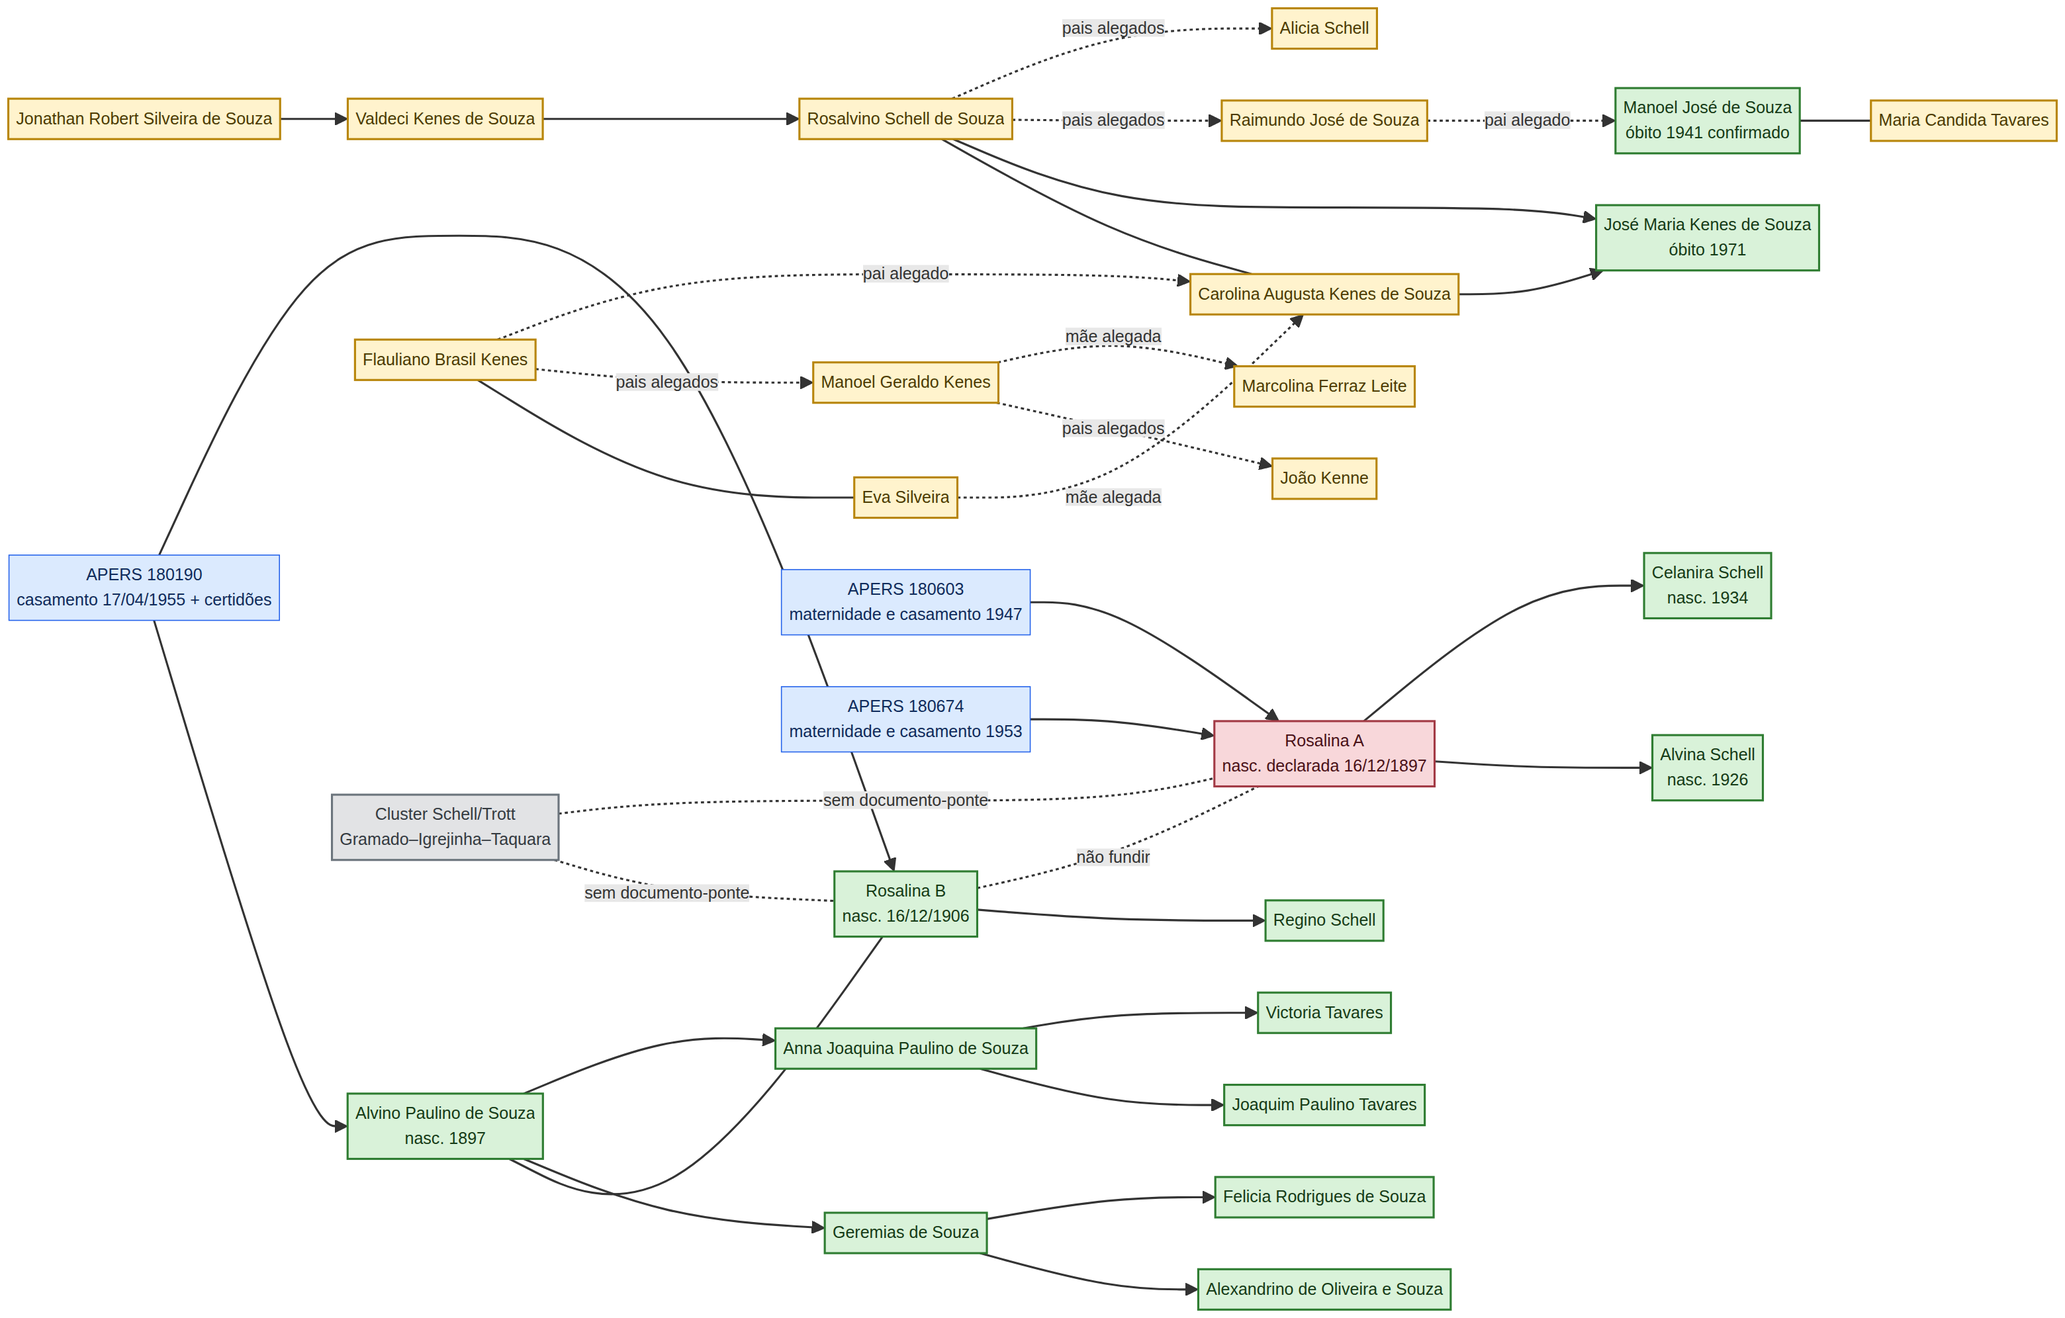
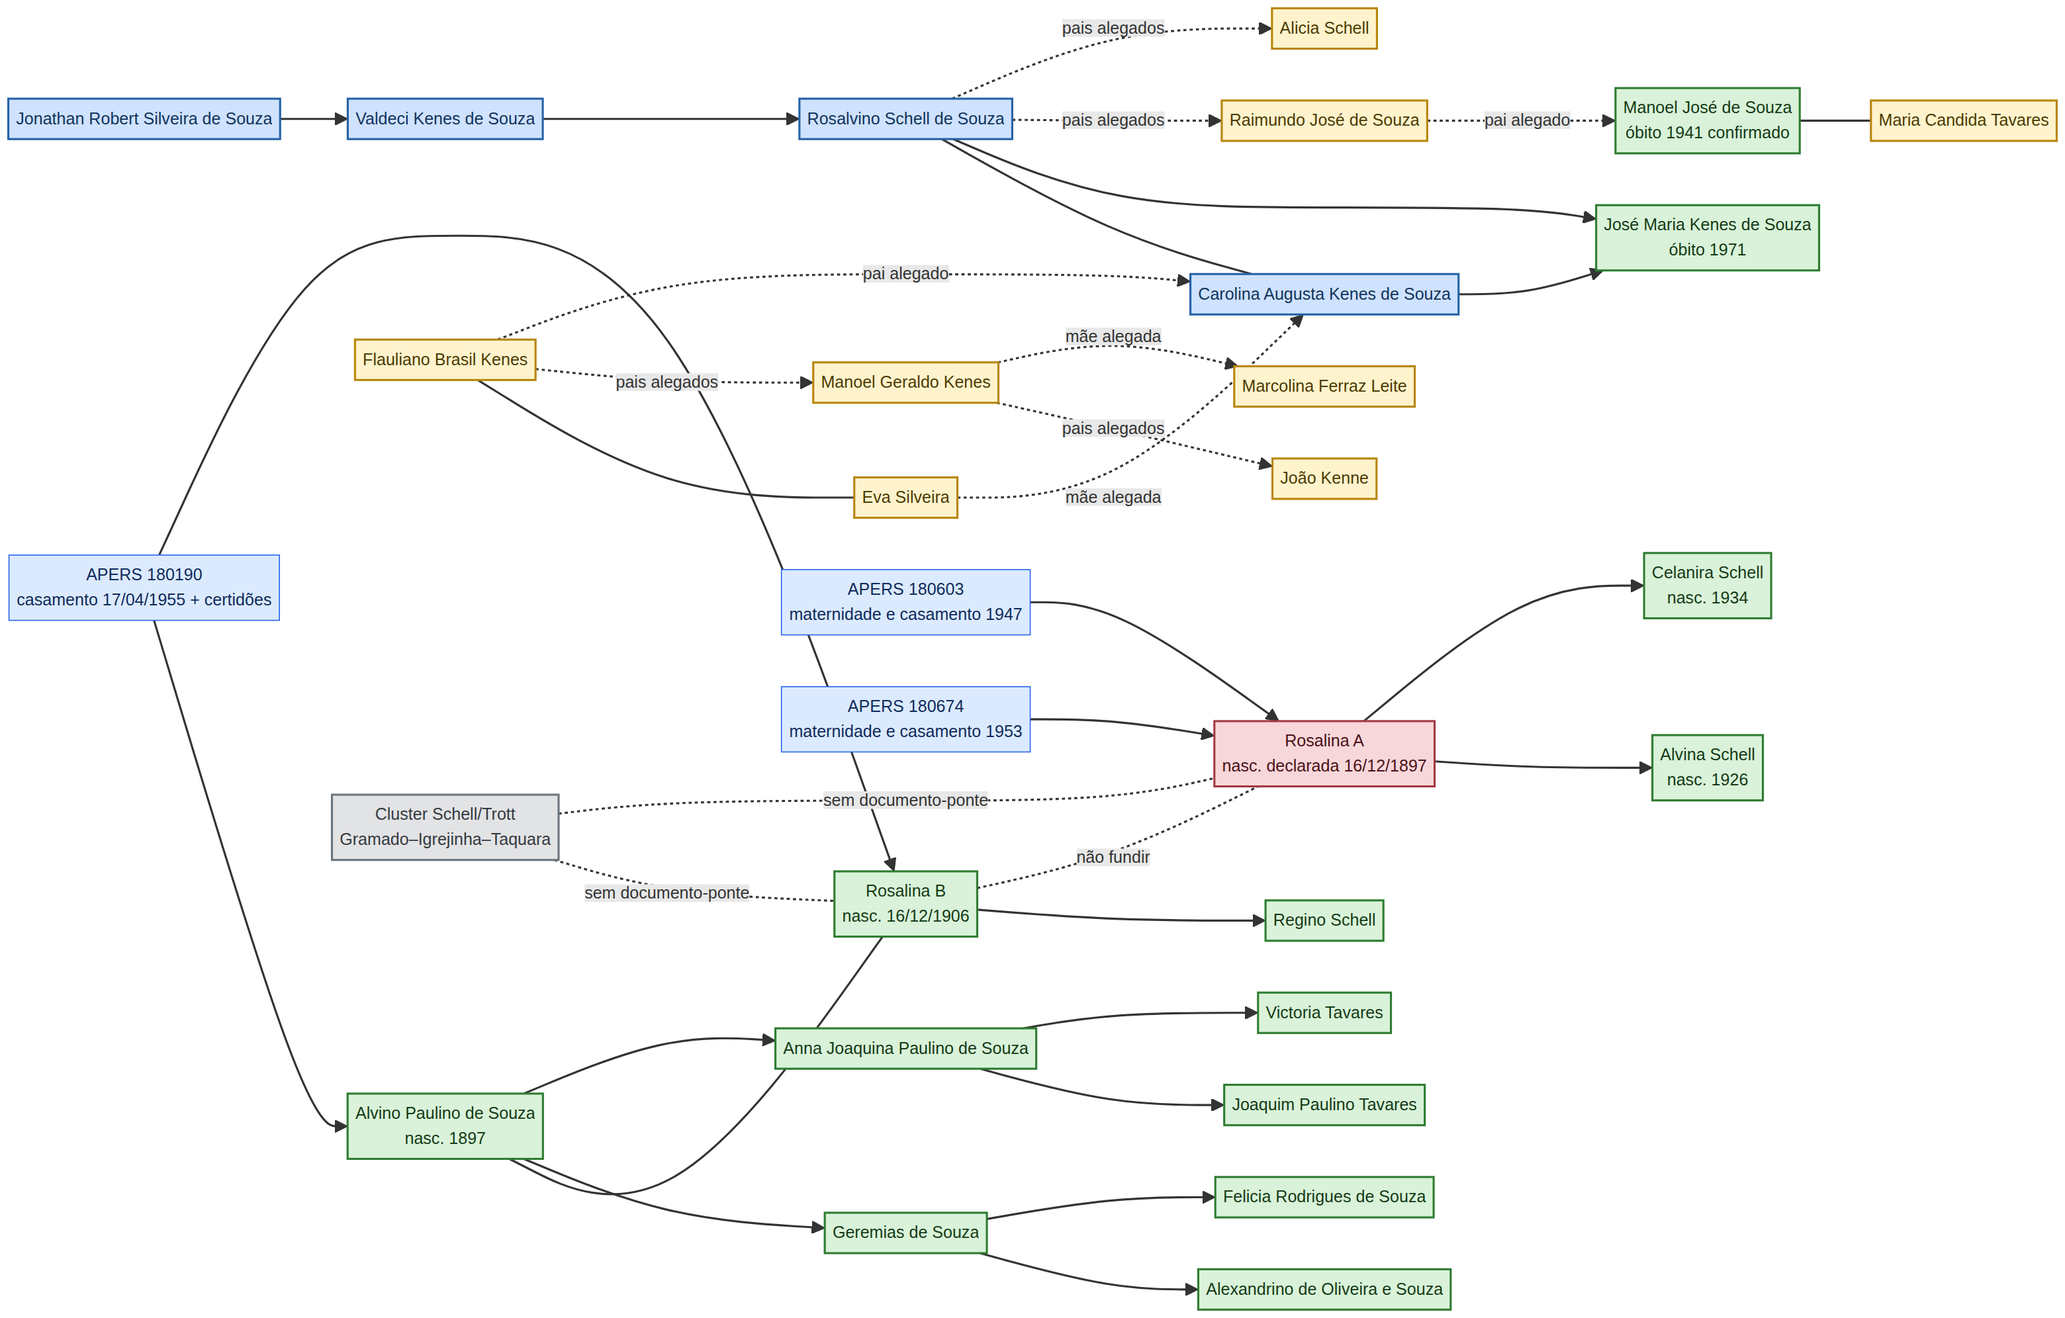
Reconhecer certidao privada da linha direta com privacidade

Changed region(s): [[0.0, 0.0622, 0.2798, 0.1245], [0.5596, 0.1867, 0.7151, 0.249], [0.3731, 0.0622, 0.4974, 0.1245]]

diff --git a/linha_direta_jonathan_atualizada_2026-08-20.md b/linha_direta_jonathan_atualizada_2026-08-20.md
@@ -4,16 +4,16 @@
 
 Na genealogia, a linha é organizada começando pela pessoa pesquisada e caminhando para trás: **você → pais → avós → bisavós → trisavós**. Cada geração para trás aumenta um grau de ancestralidade.
 
-A árvore abaixo combina memória familiar, registros civis já localizados e dados da árvore colaborativa do FamilySearch. Por isso, cada ligação está marcada como **confirmada**, **fortemente indicada** ou **a confirmar**.
+A árvore abaixo combina conhecimento familiar direto, a certidão de nascimento privada de Jonathan — não compartilhada por segurança —, registros civis já localizados e dados da árvore colaborativa do FamilySearch. Os vínculos vividos diretamente por Jonathan e registrados em sua certidão são marcados como **confirmados documentalmente em fonte privada e por testemunho familiar direto**; os demais registros civis são mantidos como documentação complementar e as relações de gerações anteriores continuam classificadas por evidência.
 
 ## Linha principal até o ramo Kenne/Kenes
 
 | Geração | Pessoa | Ligação com Jonathan | Situação atual |
 |---|---|---|---|
 | 1 | **Jonathan Robert Silveira de Souza** | Pessoa pesquisada | Identidade informada pelo próprio Jonathan. |
-| 2 | **Valdeci Kenes de Souza** | Pai | Ligação familiar conhecida; falta localizar registro civil que confirme a filiação. |
-| 3 | **Rosalvino Schell/Schel de Souza** | Avô paterno | Identidade confirmada por memória familiar; registro de óbito ainda não localizado. |
-| 3 | **Carolina Augusta Kenes de Souza** | Avó paterna | Avó viva; não devemos investigar dados pessoais diretamente sem necessidade. A presença dela como esposa de Rosalvino aparece no registro civil de José Maria de 1971. [1] |
+| 2 | **Valdeci Kenes de Souza** | Pai | **Confirmado pela certidão de nascimento privada de Jonathan e por conhecimento familiar direto**; o documento não foi compartilhado e o registro público permanece complementar. |
+| 3 | **Rosalvino Schell/Schel de Souza** | Avô paterno | **Confirmado pela certidão de nascimento privada de Jonathan e por conhecimento pessoal direto**; registro civil de óbito e nascimento permanece complementar. |
+| 3 | **Carolina Augusta Kenes de Souza** | Avó paterna | **Confirmada pela certidão de nascimento privada de Jonathan e por conhecimento familiar direto**; avó viva, portanto não devemos investigar dados pessoais diretamente sem necessidade. A presença dela como esposa de Rosalvino aparece no registro civil de José Maria de 1971. [1] |
 | 4 | **Flauliano Brasil Kenes** | Pai de Carolina | Indicado no perfil de Carolina, ID `P7NS-NVL`; casamento com Eva em 28/07/1948 aparece na árvore. |
 | 4 | **Eva Silveira** | Mãe de Carolina | Indicada no perfil de Carolina, ID `PH4B-XS2`; filiação ainda precisa de registro original. |
 | 5 | **Manoel Geraldo Kenes/Lemes** | Pai de Flauliano | Indicado na árvore, ID `PMXJ-2SR`; falta certidão primária. |
@@ -47,7 +47,7 @@ O óbito de Manoel José de Souza, em 21/02/1941, confirma o evento e menciona R
 
 ## O que já está mais comprovado
 
-O elo mais bem documentado da linha recente é o registro de José Maria Kenes de Souza, falecido em Guaíba em 29/03/1971, no qual Rosalvino Schel de Souza aparece como pai e Carolina Augusta Kenes de Souza aparece como esposa de Rosalvino. Esse documento confirma o casal no núcleo familiar, mas não substitui a certidão de nascimento ou casamento de Valdeci. [1]
+O vínculo familiar mais seguro da linha recente é confirmado por duas camadas: a **certidão de nascimento privada de Jonathan**, que registra Valdeci como pai e Rosalvino e Carolina como avós, e o **conhecimento pessoal direto de Jonathan**. A certidão não foi compartilhada nem anexada. O registro de José Maria Kenes de Souza, falecido em Guaíba em 29/03/1971, acrescenta uma correlação documental independente, pois apresenta Rosalvino Schel de Souza como pai e Carolina Augusta Kenes de Souza no conjunto familiar como esposa de Rosalvino. [1]
 
 No ramo Kenne, a página pública de Ana Ventura Kenne confirma Cândido Sandálio Kenne e Anna Maria Ugo como seus pais e lista vários irmãos. Outra fonte associada ao nascimento de José Conceição Kenne anota que seu avô João Kenne era natural da Alemanha “conforme registro”. Ainda assim, a sequência **Carolina → Flauliano → Manoel → João** precisa ser confirmada geração por geração com imagens originais.
 
@@ -55,7 +55,7 @@ No ramo Kenne, a página pública de Ana Ventura Kenne confirma Cândido Sandál
 
 A pesquisa deve avançar nesta ordem:
 
-1. **Valdeci Kenes de Souza:** localizar nascimento ou outro registro que o apresente como filho de Rosalvino e Carolina.
+1. **Valdeci Kenes de Souza:** localizar nascimento ou outro registro que documente externamente a filiação já confirmada por Jonathan, apresentando-o como filho de Rosalvino e Carolina.
 2. **Casamento ou nascimento de Carolina:** usar o registro de Flauliano e Eva de 1948 para obter filiação e localidade.
 3. **Flauliano Brasil Kenes:** localizar nascimento em 1923 e confirmar Manoel Geraldo e Dorvalina como pais.
 4. **Manoel Geraldo Kenes/Lemes:** localizar nascimento, casamento ou óbito para confirmar João Kenne e Marcolina.

diff --git a/arvore_provisoria_evidencias.md b/arvore_provisoria_evidencias.md
@@ -2,7 +2,7 @@
 
 ## Escopo atual
 
-Este registro foi elaborado a partir da visualização paisagem do FamilySearch associada à pessoa `GK15-TLV` e de páginas públicas consultadas em 19 de agosto de 2026. A árvore colaborativa e o resumo do MyHeritage são tratados como **fontes derivadas**. Nenhum elo abaixo foi elevado a confirmado sem certidão, registro paroquial, imagem de arquivo ou conjunto independente de evidências.
+Este registro foi elaborado a partir da visualização paisagem do FamilySearch associada à pessoa `GK15-TLV`, de páginas públicas consultadas em 19 de agosto de 2026 e do conhecimento familiar direto declarado por Jonathan. A árvore colaborativa e o resumo do MyHeritage são tratados como **fontes derivadas**. Os vínculos **Jonathan → Valdeci**, **Jonathan → Rosalvino** e **Jonathan → Carolina** são confirmados como fatos familiares vividos pelo testemunho pessoal direto de Jonathan; os documentos civis continuam sendo buscados para auditoria externa, datas e filiações formais. Os elos de gerações anteriores continuam dependendo de certidão, registro paroquial, imagem de arquivo ou conjunto independente de evidências.
 
 ## Árvore de trabalho
 
@@ -41,8 +41,9 @@ A disposição acima reproduz os cartões visíveis, mas a captura textual não 
 
 | Afirmação | Fonte atual | Qualidade | Confiança atual | Próxima validação |
 |---|---|---|---|---|
-| Rosalvino nasceu em 06/10/1940 em Tapes | Painel da árvore FamilySearch, `P4KK-1QH`; fontes civis associadas não correspondem diretamente ao nascimento | Perfil ainda mostra `Birth • 0 Sources` | Possível | Registro civil de Tapes ou batismo |
-| Rosalvino morreu em 17/10/2014 em Guaíba | Painel da árvore FamilySearch, `P4KK-1QH` | Derivada; óbito com 0 fontes exibidas | Possível | Registro civil de Guaíba, obituário ou sepultamento |
+| Jonathan identifica Rosalvino como seu avô e Carolina como sua avó | Conhecimento pessoal direto de Jonathan; registro indexado de José Maria acrescenta correlação do casal | Testemunho familiar direto + correlação civil | **Confirmado por testemunho familiar direto**; documentação cartorial complementar | Localizar registros apenas para auditoria externa |
+| Rosalvino nasceu em 06/10/1940 em Tapes | Painel da árvore FamilySearch, `P4KK-1QH`; fontes civis associadas não correspondem diretamente ao nascimento | Perfil ainda mostra `Birth • 0 Sources` | Hipótese documental; não afeta a confirmação da identidade familiar de Rosalvino | Registro civil de Tapes ou batismo |
+| Rosalvino morreu em 17/10/2014 em Guaíba | Painel da árvore FamilySearch, `P4KK-1QH` | Derivada; óbito com 0 fontes exibidas | Possível como dado documental pendente | Registro civil de Guaíba, obituário ou sepultamento |
 | Rosalvino ocupação: agricultor | Painel FamilySearch; 1 fonte não identificada | Derivada | Possível | Identificar a fonte e conferir a imagem |
 | Rosalvino é associado a Raimundo José de Souza e Alicia Schell de Souza | Árvore FamilySearch, IDs `GV4D-D91` e `GV54-K3Q` | Árvore colaborativa | Possível | Registro de nascimento/casamento/óbito que informe filiação |
 | Raimundo e Alicia casaram em Cerro Grande, Tapes | Perfil autenticado de Raimundo `GV4D-D91`; casamento listado em Cerro Grande, Tapes | Árvore colaborativa; fontes civis lidas até agora não são o casamento | Possível | Habilitação ou assento de casamento em Tapes/Cerro Grande do Sul |

diff --git a/notas_pesquisa_externa_2026-08-20.md b/notas_pesquisa_externa_2026-08-20.md
@@ -110,3 +110,15 @@ Aplicação à pesquisa: a estratégia deve avançar de forma encadeada. Primeir
 Foram testadas combinações abertas de `Regino Schell`, `Regina Schell` com Tapes/Alvina/Celanira e `Carlos Schell`/`Anna Schell` com Rio Grande do Sul. Não foi encontrado resultado público confiável que identifique esses nomes na linha pesquisada. Os poucos resultados exibidos eram homônimos, páginas não genealógicas ou nomes sem relação territorial/documental demonstrada.
 
 Interpretação: o resultado é **não informativo** quanto à existência ou inexistência dos registros. Ele mantém como prioridade a consulta de assentos civis/paróquias e de imagens não indexadas, sem incorporar qualquer homônimo.
+
+## Verificação visual da correção — 20/08/2026
+
+O gráfico `docs/assets/resumo_status_evidencias_2026-08-20.png` foi regenerado a partir da matriz CSV corrigida e apresenta cinco regimes: 8 afirmações com comprovação documental, 6 como hipótese ou indício, 4 como distinção/refutação, 3 não demonstradas e 3 confirmadas por testemunho familiar direto. A legenda informa que o testemunho direto confirma o vínculo familiar e que a documentação cartorial serve à auditoria externa.
+
+O mapa `docs/assets/mapa_correlacoes_ancestralidade_2026-08-20.png` foi regenerado com Jonathan, Valdeci, Rosalvino e Carolina em azul, representando confirmação por conhecimento familiar direto; Alvino, Rosalina B, Regino e os demais elos documentais aparecem em verde; hipóteses permanecem amarelas; a separação das Rosalinas permanece em vermelho; e o cluster Schell/Trott continua cinza e desconectado.
+
+## Fonte documental privada informada pelo usuário — 20/08/2026
+
+Jonathan informou que possui sua própria certidão de nascimento e que ela registra **Valdeci como seu pai** e **Rosalvino e Carolina como seus avós**. Por segurança, o documento não foi enviado, copiado, anexado ou solicitado. A pesquisa passa a registrar essa fonte como **documento civil primário disponível ao titular, não compartilhado**, suficiente para classificar esses vínculos como documentalmente confirmados no escopo privado do projeto.
+
+A referência não deve ser publicada com número de termo, livro, folha, cartório, imagem, QR code, CPF ou qualquer outro identificador. Uma eventual futura auditoria externa poderá ser feita pelo próprio titular, sem necessidade de expor a certidão ao repositório.

diff --git a/docs/00_indice_projeto_2026-08-20.md b/docs/00_indice_projeto_2026-08-20.md
@@ -1,6 +1,6 @@
 # Índice do projeto de ancestralidade
 
-Este índice organiza a pesquisa documental de **Jonathan Robert Silveira de Souza** por função. A regra geral é começar pelo relatório-mestre, consultar a matriz para o detalhe de cada afirmação e só depois abrir o documento ou a imagem original.
+Este índice organiza a pesquisa documental de **Jonathan Robert Silveira de Souza** por função. A regra geral é começar pelo relatório-mestre, consultar a matriz para o detalhe de cada afirmação e só depois abrir o documento ou a imagem original. A certidão de nascimento de Jonathan, que confirma Valdeci como pai e Rosalvino e Carolina como avós, permanece fora do repositório por decisão de segurança do titular.
 
 ## Ordem recomendada de leitura
 
@@ -26,7 +26,7 @@ O projeto utiliza APERS, FamilySearch, IBGE, Prefeitura de Cerro Grande do Sul, 
 
 ## Regras de integridade
 
-A árvore do FamilySearch é tratada como fonte derivada, não como prova final. O GEDCOM independente é uma árvore de pesquisa e deve manter separados: **Rosalina A**, mãe de Alvina/Celanira; **Rosalina B**, filha de Regino e esposa de Alvino; e o **cluster Schell/Trott** de Gramado–Igrejinha–Taquara. Não se deve atribuir nacionalidade pela aparência do sobrenome nem considerar um resultado de busca zero como refutação.
+A certidão de nascimento privada de Jonathan é tratada como fonte primária disponível ao titular, mas não é armazenada no GitHub. A árvore do FamilySearch é tratada como fonte derivada, não como prova final. O GEDCOM independente é uma árvore de pesquisa e deve manter separados: **Rosalina A**, mãe de Alvina/Celanira; **Rosalina B**, filha de Regino e esposa de Alvino; e o **cluster Schell/Trott** de Gramado–Igrejinha–Taquara. Não se deve atribuir nacionalidade pela aparência do sobrenome nem considerar um resultado de busca zero como refutação.
 
 ## Verificação técnica
 

diff --git a/docs/03_mapa_correlacoes_ancestralidade_2026-08-20.md b/docs/03_mapa_correlacoes_ancestralidade_2026-08-20.md
@@ -6,6 +6,7 @@ Este arquivo transforma a árvore provisória em uma rede de **pessoas, eventos 
 
 | Marcador | Interpretação |
 |---|---|
+| **Azul** | Vínculo confirmado pela certidão privada de Jonathan, não compartilhada, e pelo conhecimento familiar direto; nenhum dado identificável da certidão é publicado. |
 | **Verde** | Elo ou evento confirmado por fonte primária ou por registro documental direto. |
 | **Amarelo** | Hipótese ou relação forte ainda dependente de registro adicional. |
 | **Vermelho** | Conflito de identidade, homônimo ou fusão não permitida. |
@@ -13,7 +14,7 @@ Este arquivo transforma a árvore provisória em uma rede de **pessoas, eventos 
 
 ## Correlações positivas mais fortes
 
-A correlação mais forte do projeto é o conjunto formado por **Alvino Paulino de Souza + Rosalina Schell**, a habilitação de casamento APERS nº 180190, a data de 17/04/1955, a localidade de Vila Cerro Grande e as certidões anexadas com filiação. É um núcleo documental coerente e primário.
+A correlação mais forte para a identidade familiar de Jonathan é o núcleo **Jonathan → Valdeci → Rosalvino + Carolina**, confirmado pela certidão de nascimento privada de Jonathan — não compartilhada — e pelo conhecimento pessoal direto. A correlação documental compartilhada mais forte é o conjunto formado por **Alvino Paulino de Souza + Rosalina Schell**, a habilitação de casamento APERS nº 180190, a data de 17/04/1955, a localidade de Vila Cerro Grande e as certidões anexadas com filiação. São camadas diferentes de prova e a certidão privada é mantida fora do repositório por segurança.
 
 A segunda correlação forte é o núcleo **Rosalina A → Alvina/Celanira**, sustentado por dois processos distintos, de 1947 e 1953, ambos no 3º distrito de Tapes. Esse conjunto prova a maternidade, mas não identifica a mãe como a mesma Rosalina B de 1906.
 

diff --git a/README.md b/README.md
@@ -6,7 +6,9 @@ Este repositório privado reúne os arquivos da pesquisa documental de ancestral
 
 A habilitação APERS nº 180190 confirma o casamento de Alvino Paulino de Souza e Rosalina Schell em 17/04/1955 e fornece as filiações documentais de Alvino e Rosalina B. Nesta rodada, os processos APERS nº 180603 e 180674 confirmaram outra Rosalina Schell como mãe de Alvina Schell e Celanira Schell. Essas identidades permanecem separadas: não há prova de que a Rosalina mãe de Alvina/Celanira seja a mesma Rosalina nascida em 1906 e casada com Alvino.
 
-A origem europeia ainda não foi demonstrada. O sobrenome Schell é apenas uma pista e não comprova Alemanha, Suíça ou qualquer outro país. Dados da árvore colaborativa do FamilySearch a partir dos avós continuam marcados como hipóteses até confirmação por fontes primárias.
+Por conhecimento familiar pessoal e direto, Jonathan confirma que Valdeci é seu pai e que Rosalvino e Carolina são seus avós. Esses vínculos não devem ser classificados como mera hipótese. Os registros civis ainda serão buscados como documentação complementar, para auditoria externa, datas e filiações formais.
+
+A origem europeia ainda não foi demonstrada. O sobrenome Schell é apenas uma pista e não comprova Alemanha, Suíça ou qualquer outro país. Os vínculos familiares diretos de Jonathan com Valdeci, Rosalvino e Carolina são confirmados por conhecimento pessoal; já os dados de gerações anteriores e a origem europeia continuam dependendo de fontes primárias.
 
 ## Conteúdo principal
 
